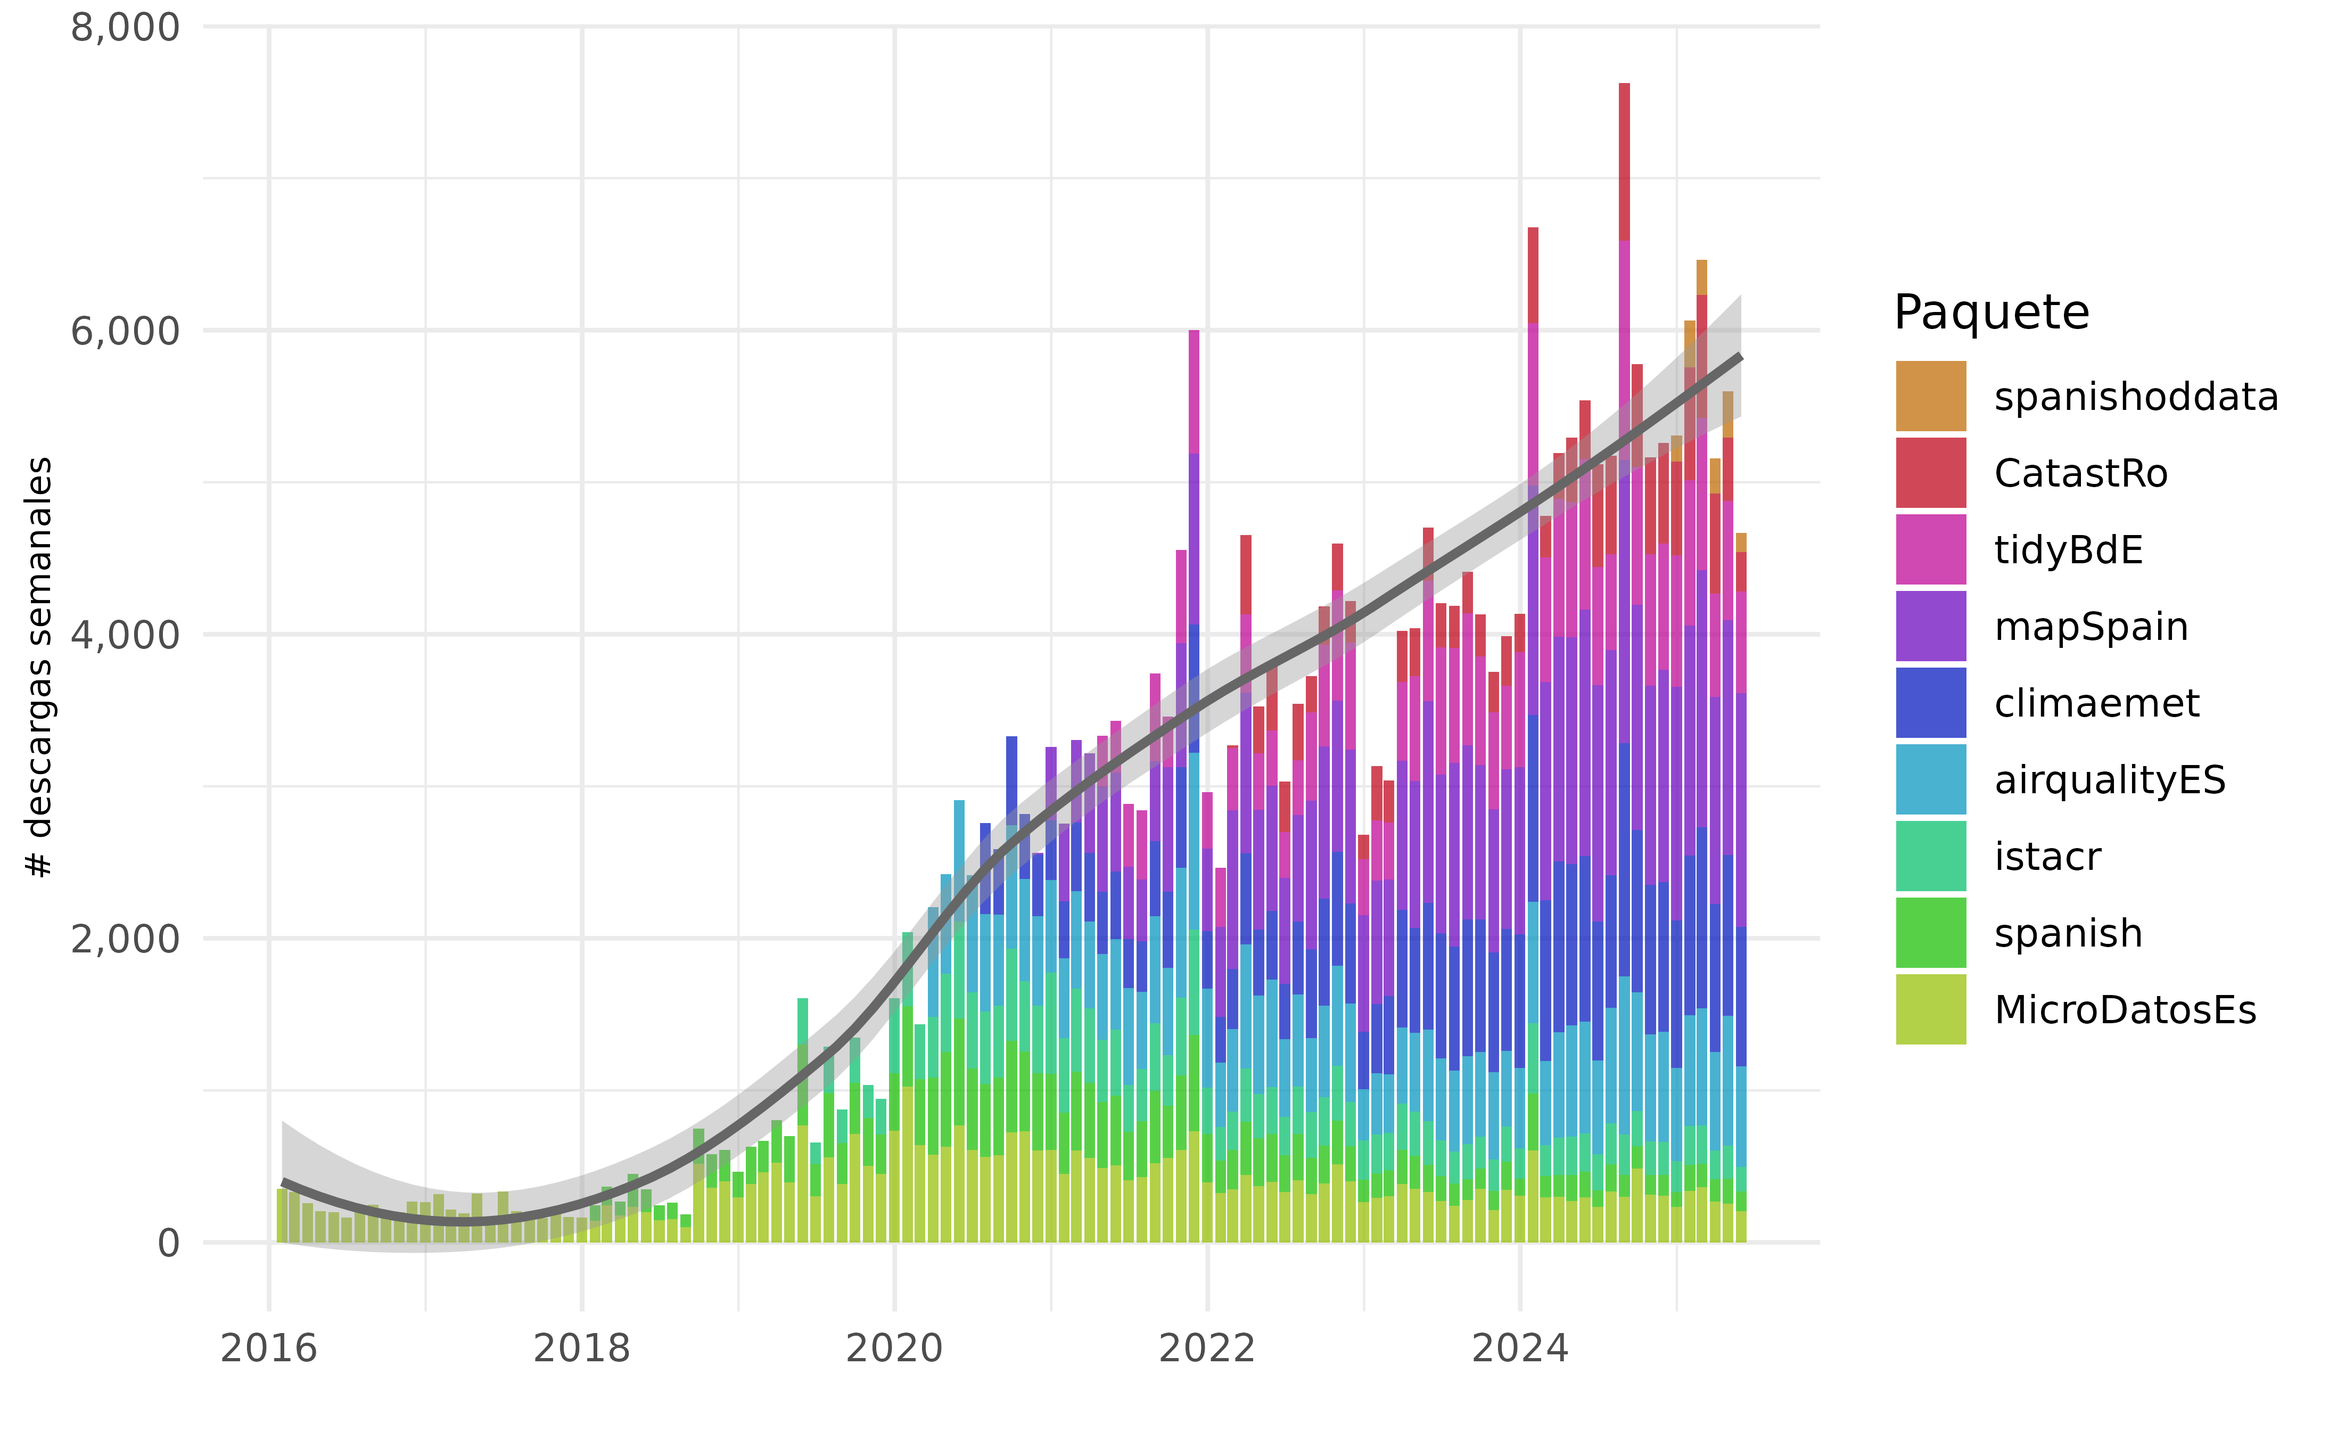
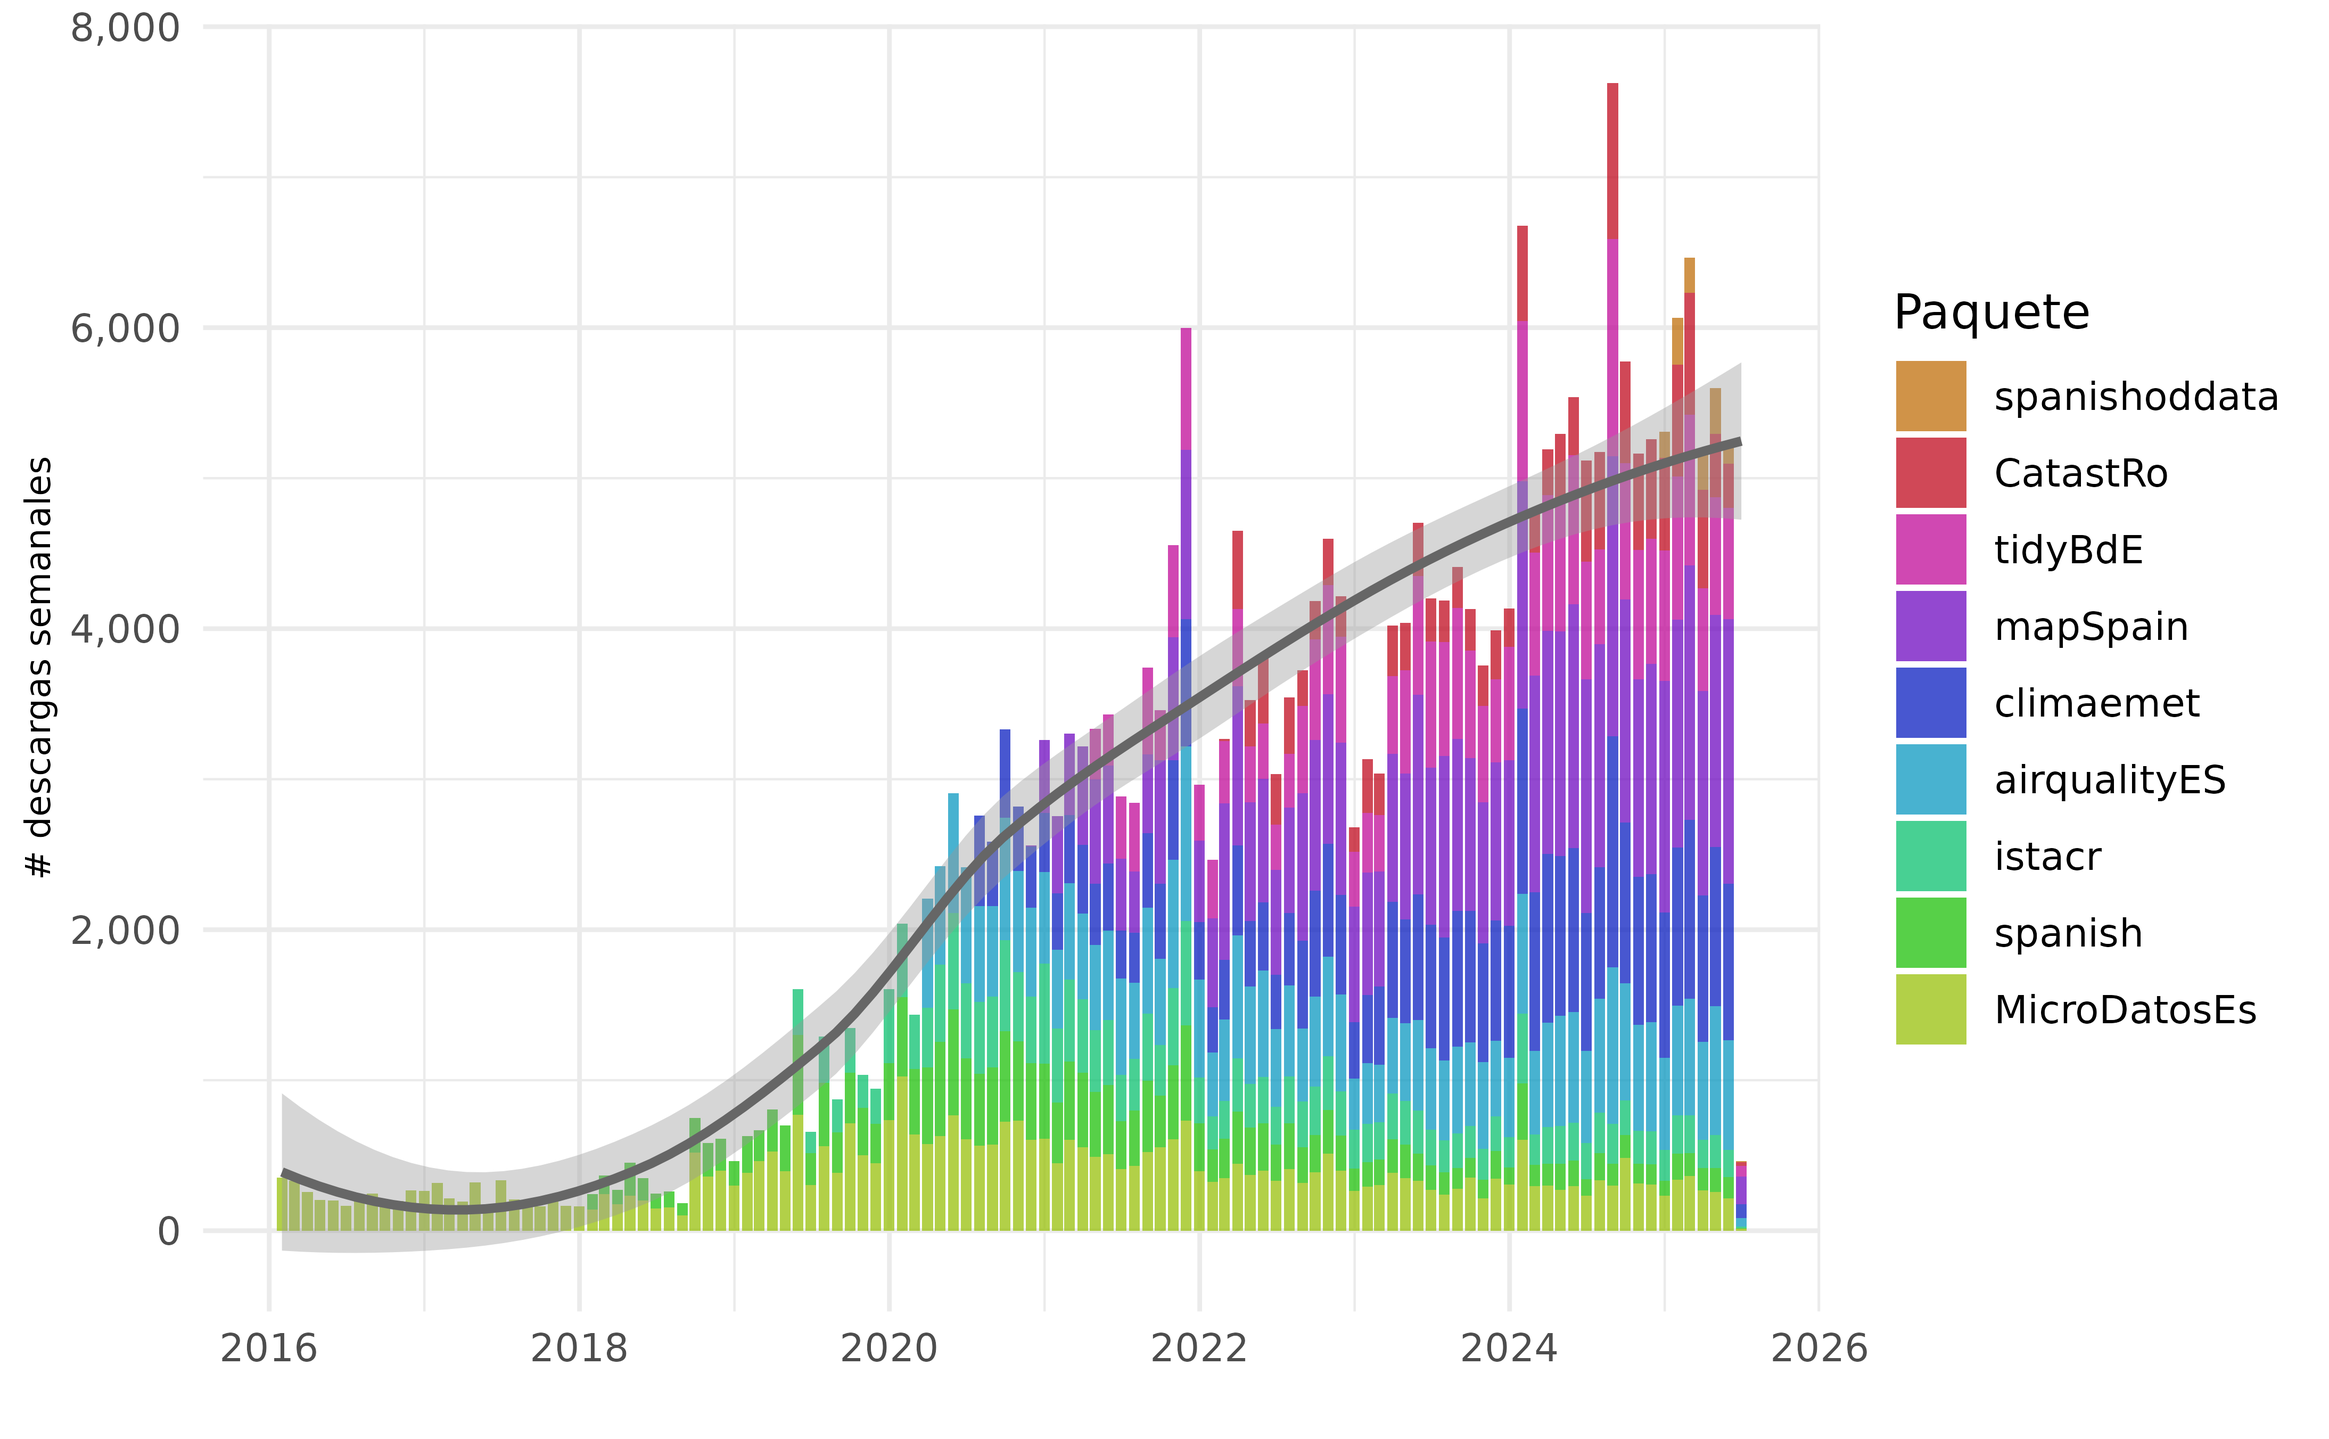
Built site for rostemplate@0.2.0.9000: 39581dd

diff --git a/articles/descargas.html b/articles/descargas.html
@@ -78,7 +78,7 @@
 
     
     
-<p><em>Fecha de actualización: 29 May 2025</em></p>
+<p><em>Fecha de actualización: 05 Jun 2025</em></p>
 <div class="section level2">
 <h2 id="en-cran">En CRAN<a class="anchor" aria-label="anchor" href="#en-cran"></a>
 </h2>
@@ -97,7 +97,7 @@
 <h3 id="datos-sobre-descargas">Datos sobre descargas<a class="anchor" aria-label="anchor" href="#datos-sobre-descargas"></a>
 </h3>
 <div class="reactable html-widget html-fill-item" id="cran-dwn" style="width:auto;height:auto;"></div>
-<script type="application/json" data-for="cran-dwn">{"x":{"tag":{"name":"Reactable","attribs":{"data":{"paquete":["mapSpain","climaemet","tidyBdE","airqualityES","CatastRo","MicroDatosEs","istacr","spanish","spanishoddata"],"en CRAN desde":["2020-11-30","2020-07-07","2021-04-08","2020-02-29","2022-02-28","2013-10-22","2019-05-03","2018-01-08","2024-12-18"],"Versión en CRAN":["2024-12-15","2025-03-25","2024-12-20","2020-02-29","2025-03-24","2023-11-24","2022-12-20","2019-05-10","2025-04-09"],"media diaria":[34.7,23.4,21.8,21.1,14.1,12.4,10.9,9.3,8.5],"último dia":[31,21,4,6,6,4,1,7,7],"última semana":[203,153,104,80,64,54,30,40,31],"último mes":[1606,965,683,724,279,216,173,139,132],"último año":[18465,12651,10537,8976,7885,3689,2765,1740,1375]},"columns":[{"id":"paquete","name":"paquete","type":"character","minWidth":150,"vAlign":"center","footerStyle":{"fontWeight":"bold"},"cell":[{"name":"div","attribs":{},"children":[{"name":"div","attribs":{"style":{"fontWeight":"bold"}},"children":[{"name":"a","attribs":{"href":"https://CRAN.R-project.org/package=mapSpain","target":"_blank"},"children":["mapSpain"]}]},{"name":"div","attribs":{"style":{"fontSize":"75%"}},"children":[{"name":"img","attribs":{"src":"https://badges.cranchecks.info/worst/mapSpain.svg","alt":"mapSpain"},"children":[]}]}]},{"name":"div","attribs":{},"children":[{"name":"div","attribs":{"style":{"fontWeight":"bold"}},"children":[{"name":"a","attribs":{"href":"https://CRAN.R-project.org/package=climaemet","target":"_blank"},"children":["climaemet"]}]},{"name":"div","attribs":{"style":{"fontSize":"75%"}},"children":[{"name":"img","attribs":{"src":"https://badges.cranchecks.info/worst/climaemet.svg","alt":"climaemet"},"children":[]}]}]},{"name":"div","attribs":{},"children":[{"name":"div","attribs":{"style":{"fontWeight":"bold"}},"children":[{"name":"a","attribs":{"href":"https://CRAN.R-project.org/package=tidyBdE","target":"_blank"},"children":["tidyBdE"]}]},{"name":"div","attribs":{"style":{"fontSize":"75%"}},"children":[{"name":"img","attribs":{"src":"https://badges.cranchecks.info/worst/tidyBdE.svg","alt":"tidyBdE"},"children":[]}]}]},{"name":"div","attribs":{},"children":[{"name":"div","attribs":{"style":{"fontWeight":"bold"}},"children":[{"name":"a","attribs":{"href":"https://CRAN.R-project.org/package=airqualityES","target":"_blank"},"children":["airqualityES"]}]},{"name":"div","attribs":{"style":{"fontSize":"75%"}},"children":[{"name":"img","attribs":{"src":"https://badges.cranchecks.info/worst/airqualityES.svg","alt":"airqualityES"},"children":[]}]}]},{"name":"div","attribs":{},"children":[{"name":"div","attribs":{"style":{"fontWeight":"bold"}},"children":[{"name":"a","attribs":{"href":"https://CRAN.R-project.org/package=CatastRo","target":"_blank"},"children":["CatastRo"]}]},{"name":"div","attribs":{"style":{"fontSize":"75%"}},"children":[{"name":"img","attribs":{"src":"https://badges.cranchecks.info/worst/CatastRo.svg","alt":"CatastRo"},"children":[]}]}]},{"name":"div","attribs":{},"children":[{"name":"div","attribs":{"style":{"fontWeight":"bold"}},"children":[{"name":"a","attribs":{"href":"https://CRAN.R-project.org/package=MicroDatosEs","target":"_blank"},"children":["MicroDatosEs"]}]},{"name":"div","attribs":{"style":{"fontSize":"75%"}},"children":[{"name":"img","attribs":{"src":"https://badges.cranchecks.info/worst/MicroDatosEs.svg","alt":"MicroDatosEs"},"children":[]}]}]},{"name":"div","attribs":{},"children":[{"name":"div","attribs":{"style":{"fontWeight":"bold"}},"children":[{"name":"a","attribs":{"href":"https://CRAN.R-project.org/package=istacr","target":"_blank"},"children":["istacr"]}]},{"name":"div","attribs":{"style":{"fontSize":"75%"}},"children":[{"name":"img","attribs":{"src":"https://badges.cranchecks.info/worst/istacr.svg","alt":"istacr"},"children":[]}]}]},{"name":"div","attribs":{},"children":[{"name":"div","attribs":{"style":{"fontWeight":"bold"}},"children":[{"name":"a","attribs":{"href":"https://CRAN.R-project.org/package=spanish","target":"_blank"},"children":["spanish"]}]},{"name":"div","attribs":{"style":{"fontSize":"75%"}},"children":[{"name":"img","attribs":{"src":"https://badges.cranchecks.info/worst/spanish.svg","alt":"spanish"},"children":[]}]}]},{"name":"div","attribs":{},"children":[{"name":"div","attribs":{"style":{"fontWeight":"bold"}},"children":[{"name":"a","attribs":{"href":"https://CRAN.R-project.org/package=spanishoddata","target":"_blank"},"children":["spanishoddata"]}]},{"name":"div","attribs":{"style":{"fontSize":"75%"}},"children":[{"name":"img","attribs":{"src":"https://badges.cranchecks.info/worst/spanishoddata.svg","alt":"spanishoddata"},"children":[]}]}]}],"rowHeader":true,"align":"left","sticky":"left"},{"id":"en CRAN desde","name":"en CRAN desde","type":"Date","minWidth":150,"vAlign":"center","footerStyle":{"fontWeight":"bold"}},{"id":"Versión en CRAN","name":"Versión en CRAN","type":"Date","minWidth":150,"vAlign":"center","footerStyle":{"fontWeight":"bold"}},{"id":"media diaria","name":"media diaria","type":"numeric","footer":"156,2","minWidth":150,"vAlign":"center","footerStyle":{"fontWeight":"bold"},"format":{"cell":{"separators":true},"aggregated":{"separators":true}}},{"id":"último dia","name":"último dia","type":"numeric","footer":"87","minWidth":150,"vAlign":"center","footerStyle":{"fontWeight":"bold"},"format":{"cell":{"separators":true},"aggregated":{"separators":true}}},{"id":"última semana","name":"última semana","type":"numeric","footer":"759","minWidth":150,"vAlign":"center","footerStyle":{"fontWeight":"bold"},"format":{"cell":{"separators":true},"aggregated":{"separators":true}}},{"id":"último mes","name":"último mes","type":"numeric","footer":"4.917","minWidth":150,"vAlign":"center","footerStyle":{"fontWeight":"bold"},"format":{"cell":{"separators":true},"aggregated":{"separators":true}}},{"id":"último año","name":"último año","type":"numeric","footer":"68.083","minWidth":150,"vAlign":"center","footerStyle":{"fontWeight":"bold"},"format":{"cell":{"separators":true},"aggregated":{"separators":true}}}],"filterable":true,"searchable":true,"showPageSizeOptions":true,"paginationType":"jump","striped":true,"language":{"sortLabel":"Ordena {name}","filterPlaceholder":"","filterLabel":"Filtro {name}","searchPlaceholder":"Búsqueda","searchLabel":"Búsqueda","noData":"Sin resultados","pageNext":"Siguiente","pagePrevious":"Anterior","pageNumbers":"{page} de {pages}","pageInfo":"{rowStart}–{rowEnd} de {rows} registros","pageSizeOptions":"Mostrando {rows}","pageNextLabel":"Siguiente página","pagePreviousLabel":"Página anterior","pageNumberLabel":"Página {page}","pageJumpLabel":"Ir a página","pageSizeOptionsLabel":"Registros por página"},"elementId":"cran-dwn","dataKey":"b68fe788e6739237efcfef87225a1caa"},"children":[]},"class":"reactR_markup"},"evals":[],"jsHooks":[]}</script>
+<script type="application/json" data-for="cran-dwn">{"x":{"tag":{"name":"Reactable","attribs":{"data":{"paquete":["mapSpain","climaemet","tidyBdE","airqualityES","CatastRo","MicroDatosEs","istacr","spanish","spanishoddata"],"en CRAN desde":["2020-11-30","2020-07-07","2021-04-08","2020-02-29","2022-02-28","2013-10-22","2019-05-03","2018-01-08","2024-12-18"],"Versión en CRAN":["2024-12-15","2025-03-25","2024-12-20","2020-02-29","2025-03-24","2023-11-24","2022-12-20","2019-05-10","2025-04-09"],"media diaria":[34.7,23.4,21.8,21.1,14,12.4,10.9,9.3,8.3],"último dia":[29,17,3,8,9,7,6,2,4],"última semana":[305,145,74,74,45,23,21,12,19],"último mes":[1683,957,663,611,287,214,172,133,135],"último año":[18450,12592,10429,8923,7811,3642,2732,1712,1399]},"columns":[{"id":"paquete","name":"paquete","type":"character","minWidth":150,"vAlign":"center","footerStyle":{"fontWeight":"bold"},"cell":[{"name":"div","attribs":{},"children":[{"name":"div","attribs":{"style":{"fontWeight":"bold"}},"children":[{"name":"a","attribs":{"href":"https://CRAN.R-project.org/package=mapSpain","target":"_blank"},"children":["mapSpain"]}]},{"name":"div","attribs":{"style":{"fontSize":"75%"}},"children":[{"name":"img","attribs":{"src":"https://badges.cranchecks.info/worst/mapSpain.svg","alt":"mapSpain"},"children":[]}]}]},{"name":"div","attribs":{},"children":[{"name":"div","attribs":{"style":{"fontWeight":"bold"}},"children":[{"name":"a","attribs":{"href":"https://CRAN.R-project.org/package=climaemet","target":"_blank"},"children":["climaemet"]}]},{"name":"div","attribs":{"style":{"fontSize":"75%"}},"children":[{"name":"img","attribs":{"src":"https://badges.cranchecks.info/worst/climaemet.svg","alt":"climaemet"},"children":[]}]}]},{"name":"div","attribs":{},"children":[{"name":"div","attribs":{"style":{"fontWeight":"bold"}},"children":[{"name":"a","attribs":{"href":"https://CRAN.R-project.org/package=tidyBdE","target":"_blank"},"children":["tidyBdE"]}]},{"name":"div","attribs":{"style":{"fontSize":"75%"}},"children":[{"name":"img","attribs":{"src":"https://badges.cranchecks.info/worst/tidyBdE.svg","alt":"tidyBdE"},"children":[]}]}]},{"name":"div","attribs":{},"children":[{"name":"div","attribs":{"style":{"fontWeight":"bold"}},"children":[{"name":"a","attribs":{"href":"https://CRAN.R-project.org/package=airqualityES","target":"_blank"},"children":["airqualityES"]}]},{"name":"div","attribs":{"style":{"fontSize":"75%"}},"children":[{"name":"img","attribs":{"src":"https://badges.cranchecks.info/worst/airqualityES.svg","alt":"airqualityES"},"children":[]}]}]},{"name":"div","attribs":{},"children":[{"name":"div","attribs":{"style":{"fontWeight":"bold"}},"children":[{"name":"a","attribs":{"href":"https://CRAN.R-project.org/package=CatastRo","target":"_blank"},"children":["CatastRo"]}]},{"name":"div","attribs":{"style":{"fontSize":"75%"}},"children":[{"name":"img","attribs":{"src":"https://badges.cranchecks.info/worst/CatastRo.svg","alt":"CatastRo"},"children":[]}]}]},{"name":"div","attribs":{},"children":[{"name":"div","attribs":{"style":{"fontWeight":"bold"}},"children":[{"name":"a","attribs":{"href":"https://CRAN.R-project.org/package=MicroDatosEs","target":"_blank"},"children":["MicroDatosEs"]}]},{"name":"div","attribs":{"style":{"fontSize":"75%"}},"children":[{"name":"img","attribs":{"src":"https://badges.cranchecks.info/worst/MicroDatosEs.svg","alt":"MicroDatosEs"},"children":[]}]}]},{"name":"div","attribs":{},"children":[{"name":"div","attribs":{"style":{"fontWeight":"bold"}},"children":[{"name":"a","attribs":{"href":"https://CRAN.R-project.org/package=istacr","target":"_blank"},"children":["istacr"]}]},{"name":"div","attribs":{"style":{"fontSize":"75%"}},"children":[{"name":"img","attribs":{"src":"https://badges.cranchecks.info/worst/istacr.svg","alt":"istacr"},"children":[]}]}]},{"name":"div","attribs":{},"children":[{"name":"div","attribs":{"style":{"fontWeight":"bold"}},"children":[{"name":"a","attribs":{"href":"https://CRAN.R-project.org/package=spanish","target":"_blank"},"children":["spanish"]}]},{"name":"div","attribs":{"style":{"fontSize":"75%"}},"children":[{"name":"img","attribs":{"src":"https://badges.cranchecks.info/worst/spanish.svg","alt":"spanish"},"children":[]}]}]},{"name":"div","attribs":{},"children":[{"name":"div","attribs":{"style":{"fontWeight":"bold"}},"children":[{"name":"a","attribs":{"href":"https://CRAN.R-project.org/package=spanishoddata","target":"_blank"},"children":["spanishoddata"]}]},{"name":"div","attribs":{"style":{"fontSize":"75%"}},"children":[{"name":"img","attribs":{"src":"https://badges.cranchecks.info/worst/spanishoddata.svg","alt":"spanishoddata"},"children":[]}]}]}],"rowHeader":true,"align":"left","sticky":"left"},{"id":"en CRAN desde","name":"en CRAN desde","type":"Date","minWidth":150,"vAlign":"center","footerStyle":{"fontWeight":"bold"}},{"id":"Versión en CRAN","name":"Versión en CRAN","type":"Date","minWidth":150,"vAlign":"center","footerStyle":{"fontWeight":"bold"}},{"id":"media diaria","name":"media diaria","type":"numeric","footer":"155,9","minWidth":150,"vAlign":"center","footerStyle":{"fontWeight":"bold"},"format":{"cell":{"separators":true},"aggregated":{"separators":true}}},{"id":"último dia","name":"último dia","type":"numeric","footer":"85","minWidth":150,"vAlign":"center","footerStyle":{"fontWeight":"bold"},"format":{"cell":{"separators":true},"aggregated":{"separators":true}}},{"id":"última semana","name":"última semana","type":"numeric","footer":"718","minWidth":150,"vAlign":"center","footerStyle":{"fontWeight":"bold"},"format":{"cell":{"separators":true},"aggregated":{"separators":true}}},{"id":"último mes","name":"último mes","type":"numeric","footer":"4.855","minWidth":150,"vAlign":"center","footerStyle":{"fontWeight":"bold"},"format":{"cell":{"separators":true},"aggregated":{"separators":true}}},{"id":"último año","name":"último año","type":"numeric","footer":"67.690","minWidth":150,"vAlign":"center","footerStyle":{"fontWeight":"bold"},"format":{"cell":{"separators":true},"aggregated":{"separators":true}}}],"filterable":true,"searchable":true,"showPageSizeOptions":true,"paginationType":"jump","striped":true,"language":{"sortLabel":"Ordena {name}","filterPlaceholder":"","filterLabel":"Filtro {name}","searchPlaceholder":"Búsqueda","searchLabel":"Búsqueda","noData":"Sin resultados","pageNext":"Siguiente","pagePrevious":"Anterior","pageNumbers":"{page} de {pages}","pageInfo":"{rowStart}–{rowEnd} de {rows} registros","pageSizeOptions":"Mostrando {rows}","pageNextLabel":"Siguiente página","pagePreviousLabel":"Página anterior","pageNumberLabel":"Página {page}","pageJumpLabel":"Ir a página","pageSizeOptionsLabel":"Registros por página"},"elementId":"cran-dwn","dataKey":"9a1619f07e381eb2c6bf25cd32db9406"},"children":[]},"class":"reactR_markup"},"evals":[],"jsHooks":[]}</script>
 </div>
 </div>
 <div class="section level2">
